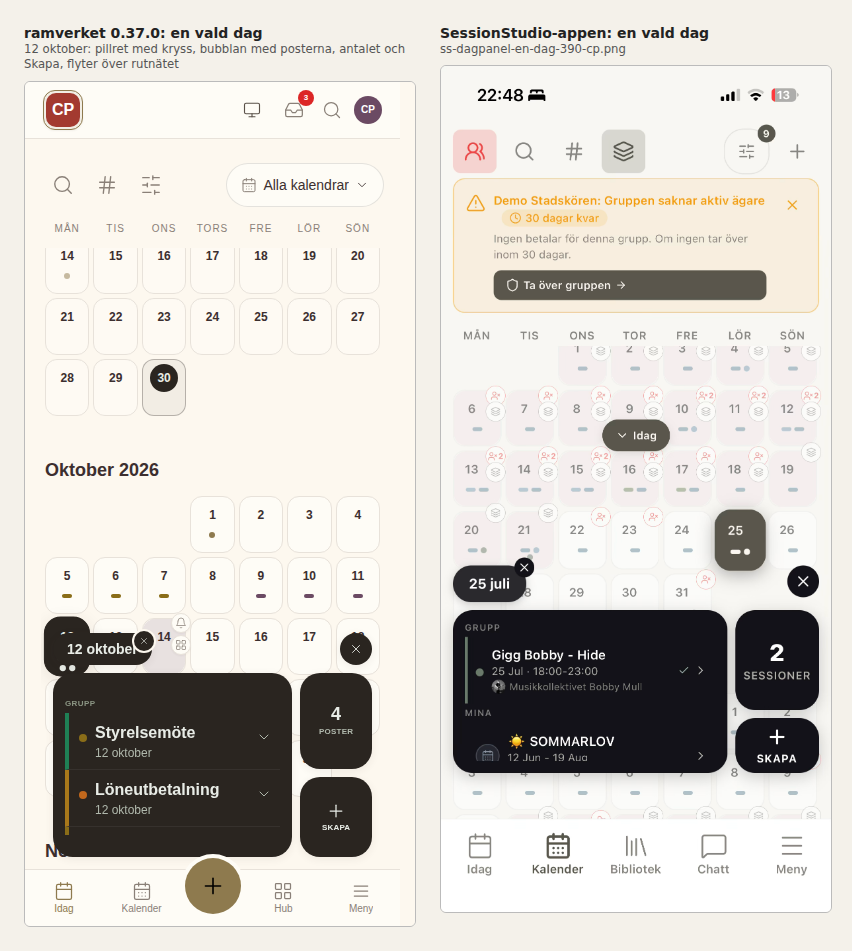
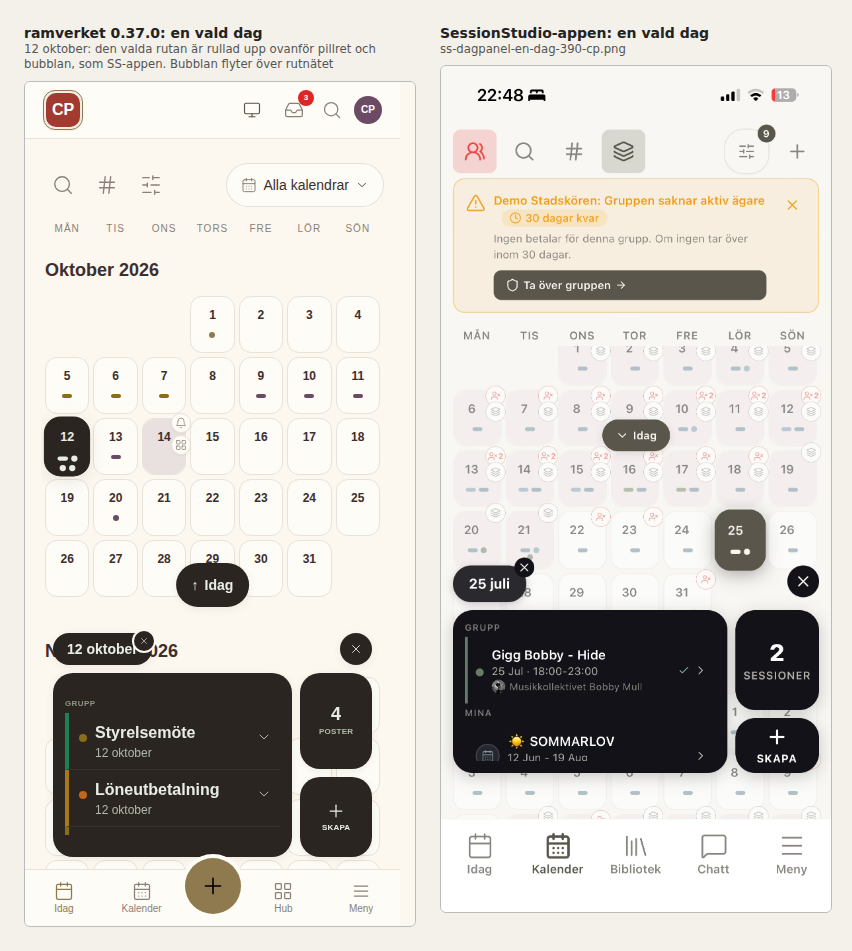
0.37.0: vald dag rullas upp ovanför panelen på telefon, och OpsSvar lägger knapparna under namnet vid 390 (CP 2026-09-30)
Röd före, grön efter i check-skalyta (avsnitt 30 h och 33). Montage för vald dag och svar omtagna.

Claude-Session: https://claude.ai/code/session_01MtEbCzeFTkDPr7xPiiaUpz

diff --git a/src/components/OpsSvar.jsx b/src/components/OpsSvar.jsx
@@ -15,6 +15,10 @@ import { OpsIdentity } from "./OpsIdentity.jsx";
  *
  * ⛔ SAMMANSTÄLLNINGEN STÅR ALLTID MED ALLA TRE DELARNA, också när de är noll (`sammanstallSvar`, punkt 5).
  *
+ * ⛔ PÅ SMAL BREDD LIGGER KNAPPARNA UNDER NAMNET (0.37.0). CP 2026-09-30: det egna namnet trycktes ihop till "Ann..." av två
+ * knappar på 44 px bredvid sig vid 390. Knapparna får en egen rad under 768 px (`w-full`), och namnet får hela raden vid
+ * avataren. Från 768 px står de bredvid, som förut. Mäts i skalytan, avsnitt 33.
+ *
  * ⛔ BARA MIN RAD HAR KNAPPAR. Regeln låter bara personen själv skriva sitt svar, och en knapp på någon annans rad hade
  * varit en knapp regeln nekar.
  *
@@ -49,7 +53,7 @@ export function OpsSvar({ svar, medlemmar, uid, onSvara, rubrik = "Svar" }) {
                 {jag ? " (du)" : ""}
               </span>
               {jag ? (
-                <OpsSvarsknappar vald={s} onSvara={onSvara} namn={m.namn} />
+                <OpsSvarsknappar vald={s} onSvara={onSvara} namn={m.namn} className="w-full items-start md:w-auto md:items-end" />
               ) : (
                 <span className="shrink-0 text-meta text-ink-secondary">{s === "kommer" ? "Kommer" : s === "kommerInte" ? "Kommer inte" : "Har inte svarat"}</span>
               )}
@@ -67,9 +71,9 @@ export function OpsSvar({ svar, medlemmar, uid, onSvara, rubrik = "Svar" }) {
  * ⛔ KNAPPEN SPÄRRAS MEDAN SVARET SKRIVS, OCH ETT FEL STÅR UTSKRIVET. Ett tryck som inte gick fram och inte säger det ser ut
  * som ett svar, och då står frågan kvar i någon annans sammanställning som "har inte svarat" utan att någon vet varför.
  *
- * @param {{ vald?: string, onSvara: (val: "kommer" | "kommerInte") => Promise<unknown> | void, namn?: string }} props
+ * @param {{ vald?: string, onSvara: (val: "kommer" | "kommerInte") => Promise<unknown> | void, namn?: string, className?: string }} props
  */
-export function OpsSvarsknappar({ vald, onSvara, namn }) {
+export function OpsSvarsknappar({ vald, onSvara, namn, className }) {
   const [skriver, setSkriver] = useState(/** @type {null | "kommer" | "kommerInte"} */ (null));
   const [fel, setFel] = useState(/** @type {string | null} */ (null));
   /** @param {"kommer" | "kommerInte"} v */
@@ -101,7 +105,7 @@ export function OpsSvarsknappar({ vald, onSvara, namn }) {
     </button>
   );
   return (
-    <span className="flex shrink-0 flex-col items-end gap-1">
+    <span className={cx("flex shrink-0 flex-col items-end gap-1", className)}>
       <span data-svarsknappar="" className="flex gap-1.5">
         {knapp("kommer", "Kommer")}
         {knapp("kommerInte", "Kommer inte")}

diff --git a/src/components/OpsCalendar.jsx b/src/components/OpsCalendar.jsx
@@ -1021,6 +1021,27 @@ export function OpsCalendar({
   }, [panelOppen]);
 
   /*
+   * ⛔ VALD DAG RULLAS UPP OVANFÖR PANELEN PÅ TELEFON (0.37.0), som SS-appen. CP 2026-09-30, med en skärmbild ur SS-appen
+   * bredvid vår: den valda veckan ligger kvar ovanför den flytande panelen, och hos oss hamnade den valda rutan UNDER den.
+   * Panelen flyter över rutnätets nedre del under 1024 px, så en ruta långt ner täcks. Här mäts rutans underkant mot
+   * panelens överkant (inga egna tal; luften är rutans egen radavstånd) och rullas bara det som saknas, uppåt. `scrollBy`
+   * på rullbehållaren och inte `scrollIntoView`, av samma skäl som `toToday`. Från 1024 px ligger panelen i en egen
+   * kolumn och ingenting täcks. Den översta valda dagen räknas: vid ett intervall är det dess rad som ska synas.
+   */
+  const forstaValda = chosen.length > 0 ? [...chosen].sort()[0] : null;
+  useEffect(() => {
+    const rulle = rulleRef.current;
+    const panel = panelRef.current;
+    if (!forstaValda || !rulle || !panel || panelHojd <= 0) return;
+    if (typeof window.matchMedia === "function" && !window.matchMedia("(max-width: 1023.98px)").matches) return;
+    const ruta = /** @type {HTMLElement | null} */ (rulle.querySelector(`[data-cal-day="${forstaValda}"]`));
+    if (!ruta) return;
+    const luft = parseFloat(getComputedStyle(rulle.querySelector("[data-cal-day]") || ruta).rowGap || "0") || 8;
+    const saknas = ruta.getBoundingClientRect().bottom + luft - panel.getBoundingClientRect().top;
+    if (saknas > 0) rulle.scrollBy({ top: saknas, behavior: "smooth" });
+  }, [forstaValda, panelHojd]);
+
+  /*
    * ══ DRA-MARKERING OCH LÅNGTRYCK (SS `MonthGrid.jsx:69-148`) ═══════════════
    *
    * ⛔ 12 PX INNAN ETT DRAG ÄR ETT DRAG. Under det är det ett tryck med en darrande tumme, och ett tryck ska välja en

diff --git a/docs/jamforelser/0.37.0/jamforelse.md b/docs/jamforelser/0.37.0/jamforelse.md
@@ -43,6 +43,7 @@ fel som regel 12 finns för, en nivå upp: en jämförelse mot fel förebild bev
 | Prickar för endagsposter, streck för flerdagsposter i varje ruta, två rader, "+N" | `markorlayout` porterad ur `calendarDayMarkerLayout.js` | prickar 6 x 6, streck 10 x 4; konferensens streck den 5, 6 och 7 oktober och inte den 4:e eller 8:e; semesterns 9 till 13 oktober över veckogränsen; inga band vid 390 |
 | Inga ikoner i rutan | samma (hörnmärkena är F6:s plats, inte postens ikon) | 0 ikoner i dagsrutorna |
 | Verktygsraden: rena ikoner till vänster, kalenderpillret till höger | samma, 44 px träffyta | Sök, Veckonummer, Typ och status utan kant och yta, ikoner 22 px; pillret sist, en kapsel med text |
+| Den valda veckan rullas upp ovanför panelen | samma: rutans underkant mäts mot panelens topp och det som saknas rullas (bara under 1024 px) | vald ruta 12 oktober: underkant 484,9, panelens topp 493 (röd utan rättelsen: 556,9) |
 | Dagpanelen flyter över rutnätet | samma, utan egen yta | panelen börjar 294 px över rullytans underkant, rullytan lika hög med panelen öppen (654 px) |
 | Datumpiller med var sitt kryss, stäng-krysset till höger | samma | tre piller, tre kryss |
 | En bubbla med posterna, GRUPP och MINA som rubriker, tak 140 px | samma | rullytan 140 px med 312 px innehåll, rubrikerna Grupp och Mina |
@@ -54,9 +55,6 @@ fel som regel 12 finns för, en nivå upp: en jämförelse mot fel förebild bev
 
 - ⛔ **Märkenas färg är CP:s tillägg, inte SS.** SS-appen ritar alla prickar och streck i samma grå. CP bad om "rätt färg för
   kategori", så ramverket färgar dem efter slag, annars kalender. Formatet är SS rakt av, färgen är vår.
-- ⛔ **Den valda dagen hamnar under pillerraden.** I SS-appen står den valda veckan ovanför pillret (25 juli syns över
-  "25 juli"), eftersom rutnätet rullar dagen upp ovanför panelen. Hos oss rullas inget när en dag väljs, så pillret "12 oktober"
-  täcker den valda rutan den 12:e i bilden. Den största kvarvarande skillnaden på telefon, och den är inte åtgärdad i 0.37.0.
 - **Postraden.** SS har en högerpil (öppnar sessionen) och en rad med tid och grupp; ramverket har en chevron som fäller ut
   raden och dagen under titeln, eftersom posten öppnas i panelen och inte i en egen sida.
 - **Kalenderpillrets ikon.** SS har filterikonen (reglage) i pillret och gruppens namn som text; ramverket har kalenderikonen,
@@ -85,7 +83,7 @@ fel som regel 12 finns för, en nivå upp: en jämförelse mot fel förebild bev
 | Redigeraren: namn, färg, ikon, Standard, Avbryt och Skapa lika breda | samma, sex färger och åtta ikoner | Avbryt och Skapa lika breda; Skapa går inte att trycka utan namn |
 | "Skapa i": grupper och Mina kalendrar (`CalendarCreateDestinationSheet`) | raden Kalender öppnar samma sorts väljare, gruppens förvalda vald | ark nerifrån på telefon, centrerad ruta på dator |
 | Personlig post: välj kalender, påverkar tillgänglighet (`PersonalCalendarEntryModal`) | i en av mina: Blockerar tillgänglighet, ingen typ, ingen Kräv svar | formuläret fick kalendern `{ slag: "mina" }` och ingen typ |
-| Tillgänglighet: en rad per medlem, räknare, "Ej svarat" | `OpsSvar`: "0 kommer, 1 kommer inte, 2 har inte svarat", bara min rad har knappar | alla tre delarna också vid noll |
+| Tillgänglighet: en rad per medlem, räknare, "Ej svarat" | `OpsSvar`: "0 kommer, 1 kommer inte, 2 har inte svarat", bara min rad har knappar; vid 390 ligger knapparna under namnet | alla tre delarna också vid noll; egna namnet "Anna Ek (du)" avkortat 0 px vid 390 (röd utan rättelsen: 37 px) |
 
 ## Hantera kalendrar, Ny händelse och svaren: vad som skiljer sig
 
@@ -96,8 +94,7 @@ fel som regel 12 finns för, en nivå upp: en jämförelse mot fel förebild bev
 - **Ny händelse:** SS har datum och tid som små kapslar och typen som knappar; ramverket har appens egna fält (typ som
   rullgardin, datum och tid som fält) och raden Kalender överst. Kräv svar finns inte i SS (SS har ett eget RSVP-flöde).
 - **Svaren:** SS har tre svar (Ja, Nej, Kanske); ramverket två (Kommer, Kommer inte), som CP bad om. SS har en klocka för
-  påminnelse på den som inte svarat; ramverket har ingen påminnelse. ⛔ **Vid 390 px trycks mitt namn ihop till "Ann…"** av
-  mina två knappar. Det är en brist, inte ett val, och den är inte åtgärdad i 0.37.0.
+  påminnelse på den som inte svarat; ramverket har ingen påminnelse.
 - **Skicka mejl** visas inte (avsändarbeslutet #180 G3 saknas), och **upprepning** ingår inte (CP har inte beslutat).
 
 ## Gruppväxlaren

diff --git a/CHANGELOG.md b/CHANGELOG.md
@@ -63,6 +63,9 @@ Händelsen: CP 2026-09-30, med en skärmbild av arket "Byt grupp": *"Ta bort ska
 ### Rättat
 - ⛔ **Mina kalendrar och posterna gick inte att skriva genom ramverkets egen källa.** 0.36.0:s regel krävde `request.resource.data.id == kid` (och `pid`), alltså nyckeln en gång till på raden. Adaptern (`create` i `src/data/firestore.js`) tar `id` ur datan och gör det till dokumentets nyckel, så varje skrivning genom `createFirestoreSource` hade nekats. Det syntes inte i 0.36.0 eftersom regelproven skrev med `setDoc` direkt och ingen klient skrev ännu. Nu står `id` inte på raden alls (punkt 2): nyckeln är sanningen. Mätt: det nya regelprovet skriver genom källan och är **rött mot 0.36.0:s regel (6 prov)**.
 
+- ⛔ **Den valda dagen hamnade under pillerraden på telefon.** CP 2026-09-30, med `ss-dagpanel-en-dag-390-cp.png` bredvid vår bild: i SS-appen rullas den valda veckan upp ovanför den flytande panelen, hos oss täcktes en ruta långt ner i rutnätet av panelen. `OpsCalendar` mäter nu den översta valda rutans underkant mot panelens överkant (`getBoundingClientRect`, ingen egen siffra; luften är rutnätets radavstånd) och rullar bara det som saknas, uppåt, på rullbehållaren (`scrollBy`, inte `scrollIntoView`). Bara under 1024 px, där panelen flyter; på dator ligger den i en egen kolumn. Skalytan, avsnitt 30 (h): rutan läggs med en tredjedel under panelens topp före trycket och måste ligga helt ovanför efter. **Röd utan rättelsen** (rutans underkant 556,9 mot panelens topp 493), **grön med** (484,9 mot 493).
+- ⛔ **`OpsSvar`: det egna namnet trycktes ihop till "Ann…" av knapparna vid 390 px.** Knapparna får en egen rad under namnet under 768 px (`w-full`) och står bredvid från 768 px som förut; `OpsSvarsknappar` fick `className`. Skalytan, avsnitt 33: namnet får inte vara avkortat (`scrollWidth` över `clientWidth`) och knapparna ska ligga under det vid 390. **Röd utan rättelsen** (namnet avkortat 37 px, knapparnas topp 248 mot namnets underkant 280), **grön med** (0 px, 288 mot 272).
+
 ### Röd utan fixen, grön med den
 - **Regelprov** (`rules/__tests__/kalenderhantering.test.mjs`, 17 prov, och `kalendrar.test.mjs` med raderna i adapterns form): alla 165 gröna. **15 mutationer i `regler.js`, en i taget, alla röda**. Två var först gröna och fick bättre prov: en mutation som skulle göra svaren raderbara träffade fel block (mutationen, inte provet), och "slutDatumets form oprövad" var grön eftersom `"12 okt"` sorterar före datumet och faller på jämförelsen; ett slutdatum med månad 13 lades till.
 - **Enhetsprov**: nya `kalenderhantering.test.jsx` (33). Mot 0.36.0 faller filen vid import. **21 mutationer** i logiken, kalendern och växlaren, en i taget mot `kalenderhantering`, `calendar`, `kalendrar` och `gruppformular`: 20 röda direkt; den 21:a ("lagerbubblan ritas alltid") var grön, och ett prov för `daglager` lades till som är rött med mutationen och grönt utan. ⛔ **Befintliga prov är ändrade och bör granskas av någon annan (arbetsreglernas punkt 9):** i `kalendrar.test.jsx` provet för raden "kommer i nästa steg" (borta med flit); i `calendar.test.jsx` fem prov för ikonerna i rutan (ersatta av prickar, streck och "+N"), provet "staplar panelen UNDER rutnätet" (ersatt av att den flyter), "ett EGET kort per post" (ersatt av en bubbla) och krysset på pillret (nu också vid en dag); i `gruppformular.test.jsx` provet för "Skapa grupp" i växlarens ark (nu att den INTE finns). **Grön nu: `npm run check` 1726 prov i 87 filer, `test:rules` 165.**
